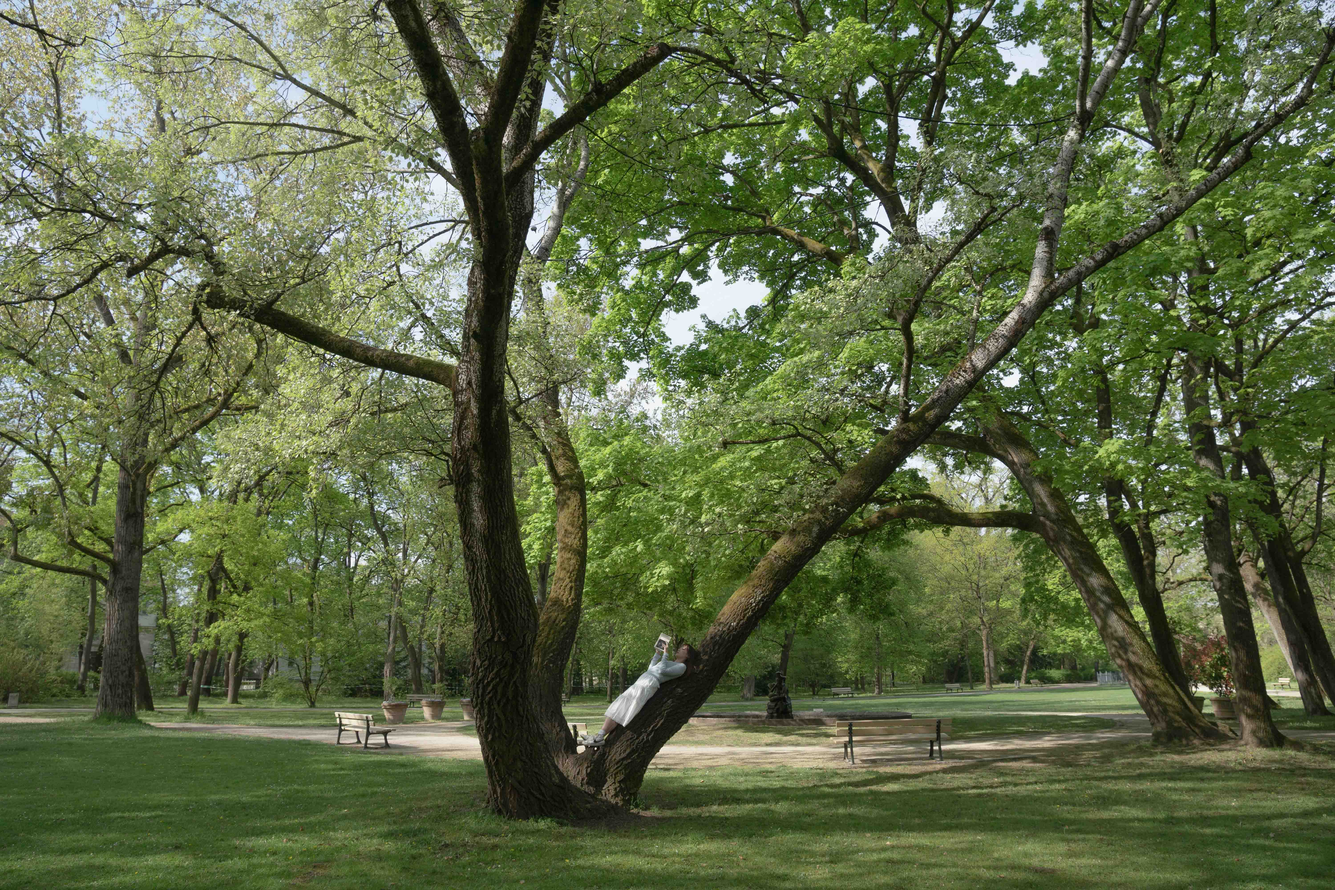
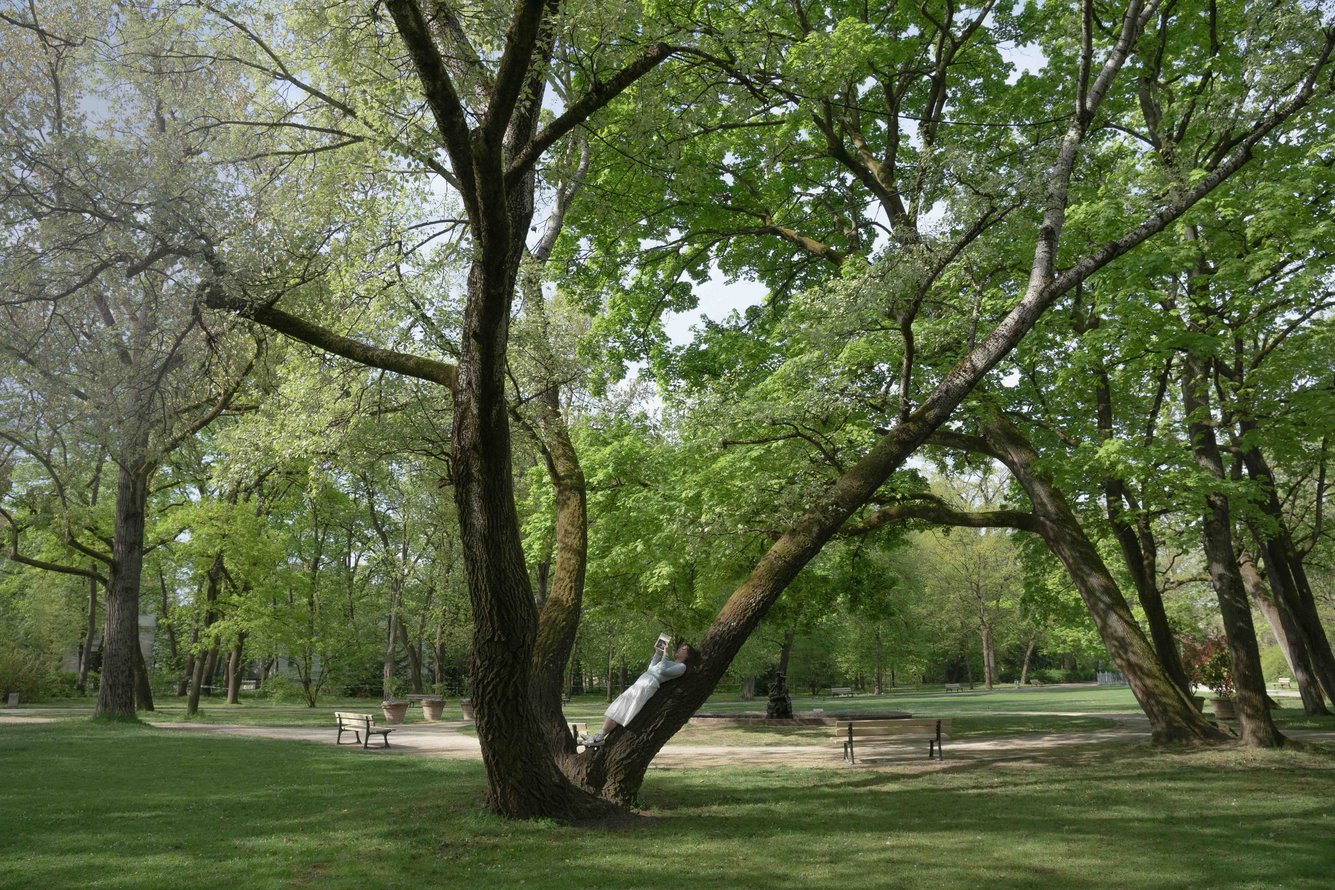
language update

Changed region(s): [[0.0, 0.0, 0.187, 0.5312]]

diff --git a/translation.js b/translation.js
@@ -8,7 +8,7 @@
       homeTitle: 'Photography Portfolio',
       homeDescription: 'Photography portfolio by Hu.',
       projectPageTitle: 'Project Gallery',
-      projectPageTitleWithName: '{name} | Project Gallery',
+      projectPageTitleWithName: '{name} ',
       projectPageDescription: 'Photography project gallery by Hu.',
       AboutText: 'About',
       closeAbout: 'Close about panel',
@@ -28,7 +28,7 @@
       catLandscape: 'Landscape',
       catStreet: 'Street',
       catMoment: 'Moment',
-      backHome: '← Back',
+      backHome: '⇽ Back',
       Spring: 'Spring',
       UndertheLights: 'Under the Lights',
       Autumn: 'Autumn',
@@ -44,7 +44,7 @@
       homeTitle: 'Fotografie-Portfolio',
       homeDescription: 'Fotografie-Portfolio von Hu.',
       projectPageTitle: 'Projektgalerie',
-      projectPageTitleWithName: '{name} | Projektgalerie',
+      projectPageTitleWithName: '{name} ',
       projectPageDescription: 'Fotografie-Projektgalerie von Hu.',
       AboutText: 'Über',
       closeAbout: 'Info-Fenster schließen',
@@ -63,8 +63,8 @@
       catPortrait: 'Porträt',
       catLandscape: 'Landschaft',
       catStreet: 'Straße',
-      catMoment: 'Moment',
-      backHome: '← Zurück',
+      catMoment: 'Augenblick',
+      backHome: '⇽ Zurück',
       Spring: 'Frühling',
       UndertheLights: 'Unter den Scheinwerfern',
       Autumn: 'Herbst',
@@ -77,11 +77,11 @@
       momentAlt: 'Momentfotografie'
     },
     zh: {
-      homeTitle: '摄影作品集',
-      homeDescription: '胡的摄影作品集。',
-      projectPageTitle: '项目画廊',
-      projectPageTitleWithName: '{name}｜项目画廊',
-      projectPageDescription: '胡的摄影项目画廊。',
+      homeTitle: '摄影主页',
+      homeDescription: '胡的摄影作品。',
+      projectPageTitle: '摄影作品',
+      projectPageTitleWithName: '{name}',
+      projectPageDescription: '胡的摄影作品。',
       AboutText: '简介',
       closeAbout: '关闭简介面板',
       closePreview: '关闭预览',
@@ -100,17 +100,17 @@
       catLandscape: '风景',
       catStreet: '街拍',
       catMoment: '瞬间',
-      backHome: '← 返回',
+      backHome: '⇽ 返回',
       Spring: '春',
-      UndertheLights: '聚光灯下',
+      UndertheLights: '聚光灯',
       Autumn: '秋',
-      Bluehour: '蓝调时刻',
-      Cowgirl: '牛仔女孩',
+      Bluehour: '傍晚',
+      Cowgirl: '乡村',
       projectImageAlt: '{name} 第 {index} 张图片',
-      portraitAlt: '人像摄影',
-      landscapeAlt: '风景摄影',
-      streetAlt: '街头摄影',
-      momentAlt: '瞬间摄影'
+      portraitAlt: '人像',
+      landscapeAlt: '风景',
+      streetAlt: '街头',
+      momentAlt: '瞬间'
     }
   };
 

diff --git a/project.css b/project.css
@@ -5,7 +5,15 @@
     margin: 0;
     padding: 0;
     box-sizing: border-box;
-    font-family: 'Helvetica Neue', Helvetica, Arial, sans-serif;
+    font-weight: 550;
+    /* font-family: 'Helvetica Neue', Helvetica, Arial, sans-serif; */
+}
+:lang(en), :lang(de) {
+  font-family:'Gill Sans', 'Gill Sans MT', Calibri, 'Trebuchet MS', sans-serif;
+}
+
+:lang(zh) {
+  font-family: "Songti SC", "STSong", "SimSun", serif;
 }
 
 body {
@@ -34,8 +42,8 @@ a {
 
 /* Fixed Sidebar */
 .project-sidebar {
-    width: 200px;
-    height: 300px;
+    width: 245px;
+    height: 350px;
     flex-shrink: 0;
     border-right:none;
     display: flex;
@@ -44,15 +52,14 @@ a {
     left: 0;
     z-index: 10;
     flex-direction: column;
-    padding: 20px 20px;
+    padding: 80px 0px 0px 35px;
     background: transparent;
 }
 
 .back-btn {
     margin-bottom: 50px;
     font-size: 1.2rem;
-    font-weight: bold;
-    color: #ffffff;
+    color: #F97316;
     transition: color 0.3s;
 }
 
@@ -71,7 +78,6 @@ a {
     background: none;
     border: none;
     font-size: 1.1rem;
-    font-weight: bold;
     cursor: pointer;
     text-align: left;
     color: #F97316;
@@ -89,11 +95,14 @@ a {
     flex: 1;
     overflow-y: auto;
     padding-top: 800px;
-    padding-left: 400px;
-    padding-right: 225px;
+    padding-left: 200px;
+    padding-right: 425px;
+    padding-bottom: 800px;
     left: 150px;
-    top: 0px;
+    top: 50px;
     background: transparent;
+
+
 }
 
 #gallery-grid {

diff --git a/style.css b/style.css
@@ -5,9 +5,16 @@
     margin: 0;
     padding: 0;
     box-sizing: border-box;
-    font-family: 'Helvetica Neue', Helvetica, Arial, sans-serif;
+    /* font-family: 'Helvetica Neue', Helvetica, Arial, sans-serif; */
+    font-weight: 550;
+}
+:lang(en), :lang(de) {
+  font-family:'Gill Sans', 'Gill Sans MT', Calibri, 'Trebuchet MS', sans-serif;
 }
 
+:lang(zh) {
+  font-family: "Songti SC", "STSong", "SimSun", serif;
+}
 body {
     background-color: #F97316;
     color: #784e00;
@@ -211,7 +218,6 @@ a {
 .personal-info-col li {
     margin-bottom: 35px;
     font-size: 1.1rem;
-    font-weight: bold;
     display: flex;
     justify-content: space-between;
 
@@ -243,13 +249,6 @@ a {
     transition: background-color 0.3s;
 }
 
-img[alt="Street Photography"] {
-    filter: brightness(1);
-}
-img[alt="Moment Photography"] {
-    filter: brightness(1);
-}
-
 .category-col:last-child {
     border-right: none;
 }
@@ -263,7 +262,6 @@ img[alt="Moment Photography"] {
     z-index: 2;
     color:#F97316;
     font-size: 1.5rem;
-    font-weight: 600;
     letter-spacing: 1px;
     text-transform: uppercase;
     text-align: center;
